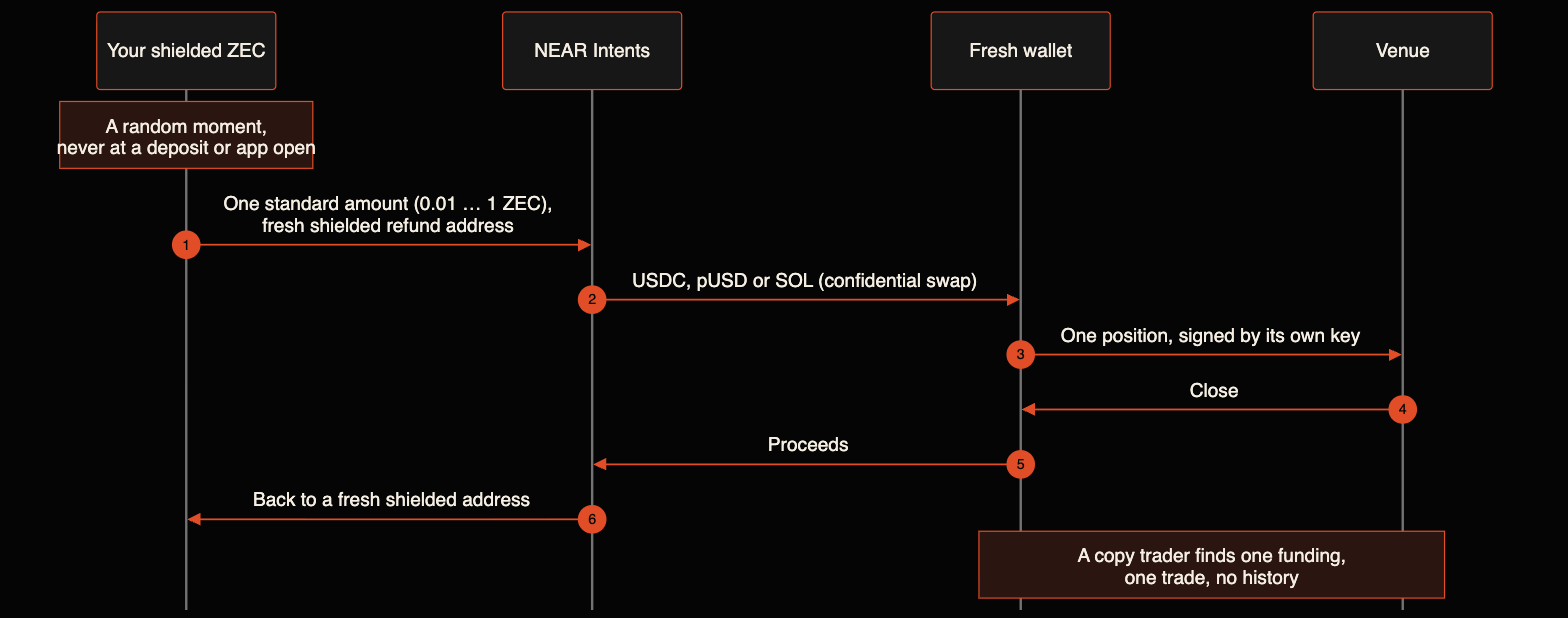
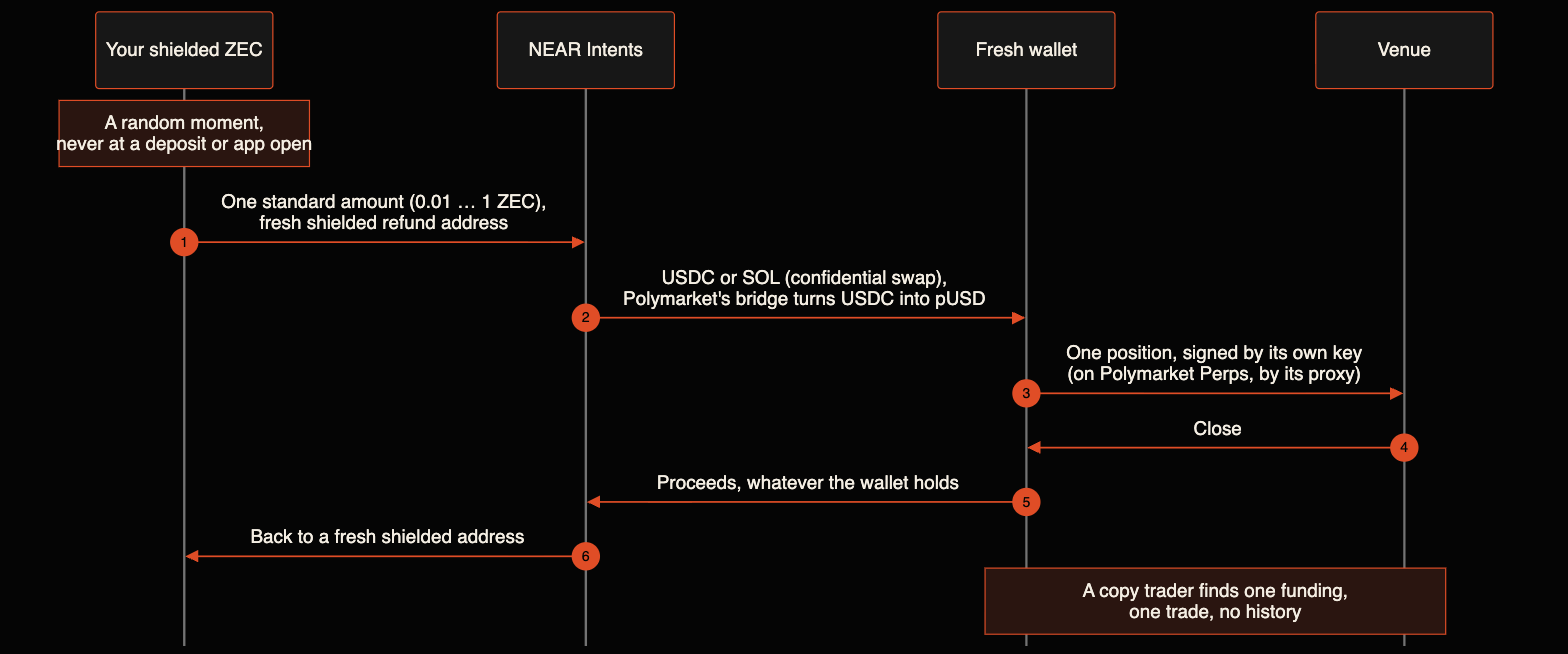
README and docs: NEAR's 0.2% and the granted mode, refunds that come home, two-step perps close, 37 tests
The funding diagram now says what NEAR pays (USDC or SOL; Polymarket's bridge makes the pUSD) and
that Perps orders are signed by a proxy; ZIP 315 is no longer cited (the rest rule is Mitoshi's).

diff --git a/apps/docs/src/app/(home)/page.tsx b/apps/docs/src/app/(home)/page.tsx
@@ -15,7 +15,7 @@ const PROOF = [
   { figure: "1 host", line: "in the browser's resource list on mitoshi.xyz", href: "/docs/privacy/verify" },
   { figure: "14 hosts", line: "on the gateway's API allowlist, nothing else", href: "/docs/privacy/oblivious-http" },
   { figure: "3 sends", line: "proved in the browser, mined on Zcash testnet", href: "/docs/zcash/testnet-proof" },
-  { figure: "36 tests", line: "engine 22, rails 7, venues 7, all passing", href: "/docs/build/code-map" },
+  { figure: "37 tests", line: "engine 22, rails 8, venues 7, all passing", href: "/docs/build/code-map" },
 ] as const;
 
 const ZCASH = [

diff --git a/README.md b/README.md
@@ -61,10 +61,12 @@ through the money that funds it; Mitoshi funds each one from the shielded pool.
 3. **A wallet nobody has seen.** Mitoshi derives a new key for this position and pays one standard amount (0.01, 0.02,
    0.05 … ZEC) from the shielded pool into NEAR Intents at a random moment. A confidential quote on 2026-10-23 turned
    **0.01 ZEC into 11.86 USDC in about 465 s**.
-4. **Trade.** The order goes to the venue's real book, signed by that wallet's own key.
+4. **Trade.** The order goes to the venue's real book, signed by that wallet's own key (on Polymarket Perps, by a
+   7-day proxy that key authorises).
 5. **See what a copy trader sees.** "What the public sees" opens the wallet's public record: one funding from a NEAR
    swap, one trade, no history, no link to your other wallets.
-6. **Come home.** Closing sells at market and swaps the proceeds back to a fresh shielded address.
+6. **Come home.** Close the position, then **Send home**: it cancels open orders and swaps what the wallet holds back
+   to a fresh shielded address (on Polymarket it also sells or redeems the shares first).
 
 ### Who sees what
 
@@ -72,13 +74,13 @@ through the money that funds it; Mitoshi funds each one from the shielded pool.
 | --- | --- | --- |
 | **The venue** (Polymarket, Hyperliquid, Jupiter) | One fresh wallet's own trades, sent from Ireland | Your other wallets, your balance, your IP or country |
 | **A copy trader** | A wallet with one funding from a NEAR swap and one trade | Whose it is, or any other wallet of yours |
-| **NEAR Intents** | One swap per funding or trip home, confidential except Polymarket's trip home, with a fresh shielded refund address | Who sent it, or any other swap of yours |
-| **The Zcash chain** | That a shielded transaction happened | Amounts, addresses, or that it was you |
+| **NEAR Intents** | One swap per funding or trip home, confidential except Polymarket's trip home; a funding refunds to a fresh shielded address, a trip home to its own wallet | Who sent it, or any other swap of yours |
+| **The Zcash chain** | Shielded transactions, plus each wallet's hops through NEAR: a standard amount in, its trip home out | Your balance, your addresses, or that it was you |
 | **Relay** (Cloudflare) | Your IP and which public markets you look at | What you ask about your wallets: every user call is an encrypted [Oblivious HTTP](https://www.rfc-editor.org/rfc/rfc9458) message |
 | **Gateway** (Vercel, Dublin) | One decrypted request, from the relay's address | Your IP, or which requests come from the same person |
 
 No server holds your keys, your list of wallets or your positions; they live only in your browser, encrypted. What is
-public on purpose (each wallet's own trades, one hop per funding at a standard amount, NEAR's swap record, and Polymarket's
+public on purpose (each wallet's own trades, one hop in at a standard amount and one hop home, NEAR's swap record, and Polymarket's
 builder attribution on gasless wallet calls) is in the [threat model](https://docs.mitoshi.xyz/docs/privacy).
 
 ## Demo video
@@ -112,7 +114,7 @@ Follow the proof on the live app:
   <a href="https://docs.mitoshi.xyz/docs/guide/private-wallets">
     <picture>
       <source media="(prefers-color-scheme: dark)" srcset=".github/assets/funding-flow-dark.png" />
-      <img src=".github/assets/funding-flow-light.png" width="960" alt="Funding round trip: at a random moment, your shielded ZEC sends one standard amount with a fresh shielded refund address to NEAR Intents, which pays USDC, pUSD or SOL to a fresh wallet in a confidential swap; the wallet opens one position on the venue, closes it, sends the proceeds back through NEAR Intents to a fresh shielded address. A copy trader finds one funding, one trade, no history." />
+      <img src=".github/assets/funding-flow-light.png" width="960" alt="Funding round trip: at a random moment, your shielded ZEC sends one standard amount with a fresh shielded refund address to NEAR Intents, which pays USDC or SOL to a fresh wallet in a confidential swap (Polymarket's bridge turns the USDC into pUSD); the wallet opens one position on the venue, closes it, sends whatever it holds back through NEAR Intents to a fresh shielded address. A copy trader finds one funding, one trade, no history." />
     </picture>
   </a>
 </p>
@@ -132,8 +134,8 @@ Follow the proof on the live app:
 | Built on | What it does | Where |
 | --- | --- | --- |
 | **Zcash** · librustzcash | `zcash_client_sqlite` 0.23 and `zcash_client_backend` 0.25 (`zcash_protocol` 0.11, NU7-ready), compiled to `wasm32-wasip1`: sync, Ironwood and Orchard notes, proofs and sends in a Web Worker, encrypted into IndexedDB | [packages/zwallet](packages/zwallet) |
-| **Zcash** · ZIPs 32, 315, 317, 318 | Keys from the 24 words; rest periods; fees; canonical amounts and timing | [packages/engine](packages/engine) |
-| **NEAR Intents** · 1Click | Every rail in and out of the shielded pool, in confidential mode, with signed quotes checked before any deposit | [packages/rails](packages/rails) |
+| **Zcash** · ZIPs 32, 317, 318 | Keys from the 24 words; fees; canonical amounts and timing | [packages/engine](packages/engine) |
+| **NEAR Intents** · 1Click | Every rail in and out of the shielded pool, in confidential mode, with signed quotes checked before any deposit and the granted mode and fees read back from them | [packages/rails](packages/rails) |
 | **Oblivious HTTP** (RFC 9458) | The client, the relay and the gateway with its upstream allowlist | [packages/net](packages/net) · [services/web](services/web) · [services/gateway](services/gateway) |
 | **Venues** | Polymarket (Deposit Wallets, CLOB), Polymarket Perps, Hyperliquid, Solana through Jupiter | [packages/venues](packages/venues) |
 
@@ -145,7 +147,7 @@ ZECATHON's brief: *"Thirty days to build something on Zcash that does not leak."
 | --- | --- | --- |
 | **Privacy:** "Does it actually preserve privacy, or does it only look like it does? Leaks are disqualifying, not deductions." | Shielded balance in the browser, one fresh wallet per position, standard amounts at random times, confidential NEAR swaps, every call over Oblivious HTTP, no server-side state. Residuals are written down, not hidden | [Who sees what](#who-sees-what) · [threat model](https://docs.mitoshi.xyz/docs/privacy) · [gateway allowlist](services/gateway/src/constants.ts) |
 | **Usefulness:** "Would someone use this on Monday." | Traders on public venues get copied and front-run through their wallet, in their own words; Mitoshi trades the venues they already use (predictions, US stocks, gold, crypto perps, tokens) with no account and no sign-up | [Why traders need it](#why-traders-need-it) · [mitoshi.xyz](https://mitoshi.xyz) |
-| **Execution:** "Does it run. Working beats ambitious." | Live on mainnet with live venue data; the browser wallet's proofs and sends confirmed on testnet; 36 unit tests | [Proof and evidence](#proof-and-evidence) |
+| **Execution:** "Does it run. Working beats ambitious." | Live on mainnet with live venue data; the browser wallet's proofs and sends confirmed on testnet; 37 unit tests | [Proof and evidence](#proof-and-evidence) |
 | **Originality:** "Built for this hackathon, not repackaged." | Written during the build window; a full Zcash wallet on librustzcash compiled to WASI for the browser, and one shielded balance behind four public venues | [Commit history](https://github.com/mitoshi-xyz/mitoshi/commits/main) |
 | **Private Markets:** "anything where the price should be public and the participants should not." | The venues' prices and books stay public; the trader behind each position does not | [One trade, start to finish](#one-trade-start-to-finish) |
 | "All code written during the build window. Libraries are fine; existing products are not." | The repository's history starts on 2026-10-22; libraries are listed above and in the lockfile | [Prior work](#prior-work) |
@@ -163,7 +165,7 @@ Dated; re-checked on 2026-10-23.
 | Confidential swaps on NEAR | A dry 1Click quote over OHTTP accepted in confidential mode: 0.01 ZEC → 11.86 USDC on HyperCore, about 465 s |
 | Polymarket over OHTTP | Market lookup, pUSD reads, a bridge quote (60 USDC → 59.987 pUSD), and the gateway's builder signer returning signed relayer headers |
 | Gateway egress | Ireland (Vercel dub1) for every visitor, so no venue learns a user's country |
-| Unit tests | 36 passing: engine 22 (denominations, rest rules, scheduling, one wallet per position, registry, keys, leak meter), rails 7 (1Click quotes and signature check), venues 7 (Polymarket Perps signing) |
+| Unit tests | 37 passing: engine 22 (denominations, rest rules, scheduling, one wallet per position, registry, keys, leak meter), rails 8 (1Click quotes, the signature check, the mode and fees read back), venues 7 (4 Polymarket Perps signing, 3 Solana transactions) |
 
 The testnet transactions were read back with `GetTransaction` from the light server the wallet syncs from; public
 testnet explorers follow an older testnet chain and do not show them.

diff --git a/.github/submission/fields.md b/.github/submission/fields.md
@@ -6,7 +6,7 @@ Ready to paste into the form at thezecathon.com (SUBMIT PROJECT), in the form's 
 | --- | --- | --- |
 | Project name | 64 | Mitoshi 見通し |
 | Track | one | Private Markets |
-| Description | 2000 | below (1873 characters) |
+| Description | 2000 | below (1,923 characters) |
 | Code repository | URL | https://github.com/mitoshi-xyz/mitoshi |
 | Working demo | URL | https://mitoshi.xyz |
 | Demo video | URL | (the two-minute recording, once uploaded) |
@@ -17,16 +17,16 @@ Ready to paste into the form at thezecathon.com (SUBMIT PROJECT), in the form's 
 ```text
 Trade predictions, stocks and crypto from shielded ZEC. On Polymarket, Hyperliquid and Solana, each position opens from a brand-new wallet funded through NEAR Intents: copy traders find one trade and no history. Live at mitoshi.xyz.
 
-What it does: a real Zcash wallet runs in your browser (librustzcash's zcash_client_sqlite and client_backend compiled to WASM; Ironwood and Orchard, NU7-ready). For each position on Polymarket, Polymarket Perps (US stocks, gold, oil), Hyperliquid or Solana, Mitoshi derives a fresh key and funds it from the shielded pool through NEAR Intents 1Click. The order goes to the venue's real book. On close, the money swaps back to a fresh shielded address.
+What it does: a real Zcash wallet runs in your browser (librustzcash's zcash_client_sqlite and client_backend compiled to WASM; Ironwood and Orchard, NU7-ready). For each position on Polymarket, Polymarket Perps (US stocks, gold, oil), Hyperliquid or Solana, Mitoshi derives a fresh key and funds it from the shielded pool through NEAR Intents 1Click. The order goes to the venue's real book. Send home swaps the money back to a fresh shielded address.
 
 Why it does not leak:
 - One wallet, one position: no two wallets share a key, proxy, refund address or request.
 - ZIP 318 canonical amounts (0.01, 0.02, 0.05… ZEC) at sampled random times: never at a deposit, at app open or right after a trade. Value from a public address rests 2-6 h.
-- Confidential NEAR swaps (all but Polymarket's trip home), a fresh shielded refund address each time.
+- Confidential NEAR swaps (all but Polymarket's trip home), a fresh shielded refund address for each funding.
 - Every call about your wallets is Oblivious HTTP over two hops: the relay sees your IP, not the request; the gateway (Dublin) sees the request, not your IP. Light-client calls too.
 - No server holds keys, wallets or positions. Pages and workers load nothing third-party (strict CSP, no-transform). No builder tag on orders.
 - A leak meter on every send; "What the public sees" shows each wallet as a copy trader would.
 
-What is real: the browser wallet proved and broadcast Ironwood spends on NU7 testnet (txids in the README); production runs on mainnet with live venue data; confidential 1Click quotes and Polymarket's builder signing verified through the gateway; 36 unit tests. Not yet: the full mainnet round trip on each venue.
+What is real: the browser wallet proved and broadcast Ironwood spends on NU7 testnet (txids in the README); production runs on mainnet with live venue data; confidential 1Click quotes and Polymarket's builder signing verified through the gateway; 37 unit tests. Not yet: the full mainnet round trip on each venue.
 Mock: none in the product. The landing's copy-trader feed and sample wallets are labelled illustrations.
 ```
